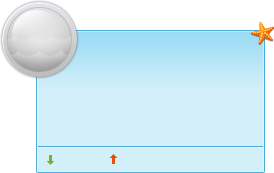
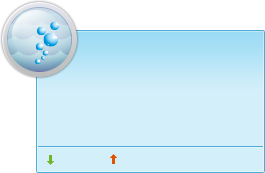
Modify MonitorBall.qml and SuspensionFrame.qml

diff --git a/qml/MonitorBall.qml b/qml/MonitorBall.qml
@@ -4,7 +4,7 @@ import "./func/common" as Common
 Rectangle {
     id:sfloat
     width: 83
-    height: 35
+    height: 48
     color: "transparent"
     radius: 5
     property string up_speed: "0"
@@ -39,8 +39,8 @@ Rectangle {
     }
     Column{
         anchors{
-            top:parent.top
-            topMargin: 2
+            bottom:parent.bottom
+            bottomMargin: 6
             left: parent.left
             leftMargin: 22
         }
@@ -60,16 +60,16 @@ Rectangle {
     }
     Rectangle{
         id:ball
-        width: 30;height: 30
+        width: 31;height: 31
 //        border.color: "grey"
         radius:2
         z:1
         smooth:true
         anchors{
             right: parent.right
-            rightMargin: 2
-            top:parent.top
-            topMargin: 1
+            rightMargin: 1
+            bottom:parent.bottom
+            bottomMargin: 2
         }
         Text {
             id: cpu
@@ -78,26 +78,26 @@ Rectangle {
             anchors.centerIn: parent
         }
         gradient: Gradient{
-            GradientStop{position: 0.0; color: (sfloat.memory_ratio == 100) ? "red" : "transparent"}
+            GradientStop{position: 0.0; color: (sfloat.memory_ratio == 100) ? "#ff2400" : "transparent"}
 
-            GradientStop{position: 1.0 - sfloat.memory_ratio * 0.01; color: (sfloat.memory_ratio == 100) ? "red" : "transparent"}
+            GradientStop{position: 1.0 - sfloat.memory_ratio * 0.01; color: (sfloat.memory_ratio == 100) ? "#ff2400" : "transparent"}
             GradientStop{position: (sfloat.memory_ratio <= 0) ? 0.0 : (1.0 - sfloat.memory_ratio * 0.01 + 0.01);
                 color: {
                     if(sfloat.memory_ratio > 60)
-                        "red"
+                        "#ff2400"
                     else if (sfloat.memory_ratio == 0)
                         "transparent"
                     else
-                        "green"
+                        "#0084ff"
                 }
             }
             GradientStop{position: 1.0; color: {
                     if (sfloat.memory_ratio == 0)
                         "transparent"
                     else if (sfloat.memory_ratio == 100)
-                        "red"
+                        "#ff2400"
                     else
-                        "green"
+                        "#0084ff"
                 }
             }
         }

diff --git a/qml/SuspensionFrame.qml b/qml/SuspensionFrame.qml
@@ -141,7 +141,7 @@ Rectangle{
                 }
 
                 Row {
-                    spacing: 25
+                    spacing: 36
                     anchors{
                         left: parent.left
                         leftMargin: 28
@@ -272,31 +272,37 @@ Rectangle{
             top:parent.top
             topMargin: 6
         }
+        Image {
+            source: "./img/skin/accelerate-bg-1.png"
+        }
         Text {
             id: cpu
             text: root.ratio  + "%";
             anchors.centerIn: parent
         }
+//        Image {
+//            source: "./img/skin/accelerate-bg-1.png"
+//        }
         gradient: Gradient{
-            GradientStop{position: 0.0; color: (root.ratio == 100) ? "red" : "transparent"}
-            GradientStop{position: 1.0 - root.ratio * 0.01; color: (root.ratio == 100) ? "red" : "transparent"}
+            GradientStop{position: 0.0; color: (root.ratio == 100) ? "#ff2f00" : "transparent"}
+            GradientStop{position: 1.0 - root.ratio * 0.01; color: (root.ratio == 100) ? "#ff2f00" : "transparent"}
             GradientStop{position: (root.ratio <= 0) ? 0.0 : (1.0 - root.ratio * 0.01 + 0.01);
                 color: {
                     if(root.ratio > 60)
-                        "red"
+                        "#ff2f00"
                     else if (root.ratio == 0)
                         "transparent"
                     else
-                        "green"
+                        "#00b0ff"
                 }
             }
             GradientStop{position: 1.0; color: {
                     if (root.ratio == 0)
                         "transparent"
                     else if (root.ratio == 100)
-                        "red"
+                        "#ff1900"
                     else
-                        "green"
+                        "#006eff"
                 }
             }
         }
